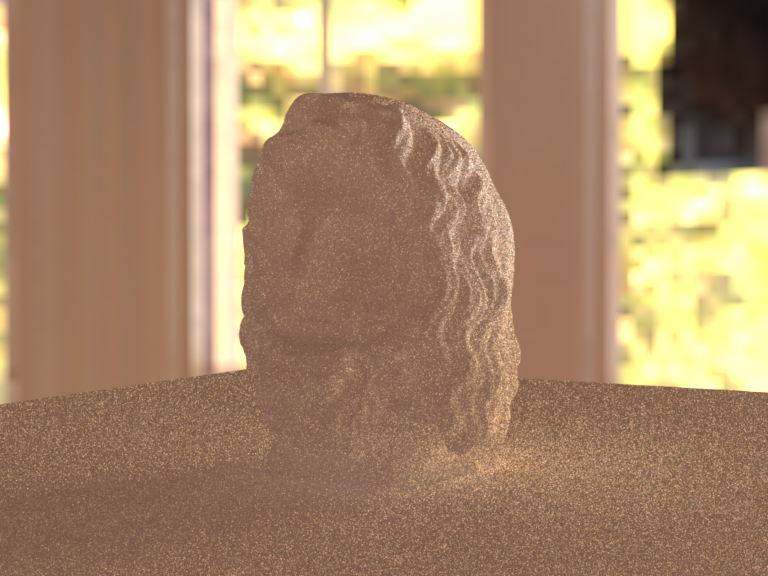
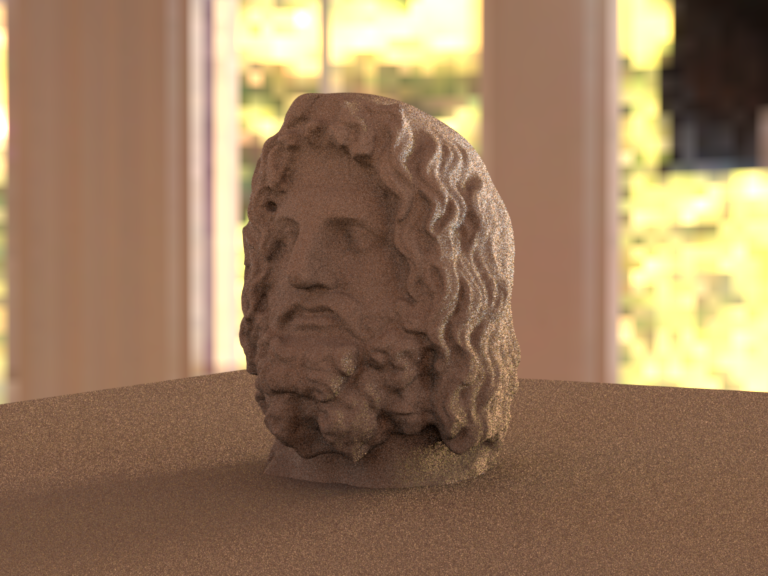
fixed environment lights

Changed region(s): [[0.0, 0.1562, 1.0, 1.0]]

diff --git a/src/pathtracing.cpp b/src/pathtracing.cpp
@@ -18,6 +18,7 @@ Color3f sampleRandomEmitter(const Scene *scene, Sampler *sampler,
             const Point3f &surfaceP,
             Emitter *&emitterMesh,
             Point3f &lightP,
+            const Point3f &normal,
             float &lightPdf)
 {
     // Sample a random emitter
@@ -31,6 +32,9 @@ Color3f sampleRandomEmitter(const Scene *scene, Sampler *sampler,
     // Sample a point on the emitter
     EmitterQueryRecord emitterQuery (ESolidAngle);
     emitterQuery.surfaceP = surfaceP;
+
+    if (emitterMesh->getEmitterType() == EmitterType::EMITTER_ENVIRONMENT)
+        emitterQuery.n = normal;
     Color3f Le = emitterMesh->sampleLi(sampler, emitterQuery) / randomLightPdf;
     
     lightP = emitterQuery.lightP;
@@ -92,11 +96,12 @@ Color3f Pth::nextEventEstimation(const Scene *scene,
                 float &lightPdf, float &bsdfPdf)
 {
     Point3f lightP;
+    Point3f normal = state.intersection.shFrame.n;
     Emitter *emitterMesh = nullptr;
 
     // Sample a point on a random emitter
     Color3f Le = sampleRandomEmitter(scene, sampler, bsdfQuery.po, 
-            emitterMesh, lightP, lightPdf);
+            emitterMesh, lightP, normal, lightPdf);
     
     if (Le == Color3f(0.0f))
         return Color3f(0.0f);
@@ -119,10 +124,17 @@ Color3f Pth::nextEventEstimation(const Scene *scene,
         // Compute the geometric term
         float cosThetaP = Math::absCosTheta(l_wo);
         float G = cosThetaP / g_wo.squaredNorm();
+        
 
         if (emitterMesh->getEmitterType() == EmitterType::EMITTER_ENVIRONMENT)
         {
-            return Le*f *cosThetaP;
+            if (scene->getIntegrator()->toString() == "Whitted[]")
+            {
+                return Le * f * cosThetaP;
+            }else{
+                return Le * f * cosThetaP * bsdfPdf;
+            }
+            
         }else
         {
             return Le * f * G;

diff --git a/src/path_mis.cpp b/src/path_mis.cpp
@@ -133,12 +133,22 @@ public:
             /* Find the surface that is visible in the requested direction */
             if (!scene->rayIntersect(state.ray, state.intersection))
             {
-                // Render emitter
-                EmitterQueryRecord emitterQuery(-state.ray.d, ESolidAngle);
-                emitterQuery.lightP = state.ray.d*1e15;
+                if (scene->getEnvironmentalEmitter() != nullptr && state.depth < 2){
+                    EmitterQueryRecord emitterQuery (-state.ray.d, EMeasure::EDiscrete);
+                    emitterQuery.lightP = state.ray.d*1e15;
 
-                if (scene->getEnvironmentalEmitter() != nullptr)
-                    state.radiance += scene->getEnvironmentalEmitter()->eval(emitterQuery)*state.scatteringFactor;
+                    float weight = 1.0f;
+                    if (state.previous_diffuse)
+                    {
+                        emitterQuery.surfaceP = state.prevP;
+                        emitterQuery.measure = EMeasure::ESolidAngle;
+                        
+                        float lightPdf = scene->getEnvironmentalEmitter()->pdf(emitterQuery);
+                        int nSamples = state.previous_sss ? N_SSS_NES_SAMPLES : 1;
+                        weight = Math::powerHeuristic(1, state.bsdfPdf, nSamples, lightPdf);
+                    }
+                    state.radiance += scene->getEnvironmentalEmitter()->eval(emitterQuery)*state.scatteringFactor * weight;
+                }
                 state.scatteringFactor = Color3f(0.0f);
                 return;
             }

diff --git a/src/whitted.cpp b/src/whitted.cpp
@@ -69,7 +69,9 @@ public:
         auto query = Pth::initBSDFQuery(scene, state);
         Color3f fp = bsdf->samplePoint(query, sampler);
 
-        return fp * Pth::nextEventEstimation(scene, sampler, state, query);
+        float lightPdf, bsdfPdf;
+        Color3f result = fp * Pth::nextEventEstimation(scene, sampler, state, query, lightPdf, bsdfPdf);
+        return result;
     }
 
     Color3f integrateSubsurface(const Scene *scene, 
@@ -106,11 +108,9 @@ public:
 
         /* Find the surface that is visible in the requested direction */
         if (!scene->rayIntersect(ray, its)){
-            // Render emitter
-            EmitterQueryRecord emitterQuery(-ray.d, EDiscrete);
-            emitterQuery.lightP = ray.d*1e15;
-
             if (scene->getEnvironmentalEmitter() != nullptr){
+                EmitterQueryRecord emitterQuery(-ray.d, EDiscrete);
+                emitterQuery.lightP = ray.d*1e15;
                 radiance += scene->getEnvironmentalEmitter()->eval(emitterQuery);
                 return radiance;
             }else{

diff --git a/src/path_ems.cpp b/src/path_ems.cpp
@@ -103,13 +103,12 @@ public:
         {
             if (!scene->rayIntersect(state.ray, state.intersection))
             {
-                // Render emitter
-                EmitterQueryRecord emitterQuery(-state.ray.d, ESolidAngle);
-                emitterQuery.lightP = state.ray.d*1e15;
-
-                if (scene->getEnvironmentalEmitter() != nullptr)
-                    state.radiance += scene->getEnvironmentalEmitter()->eval(emitterQuery)*state.scatteringFactor;
-                
+                if (scene->getEnvironmentalEmitter() != nullptr && state.depth < 2){
+                    EmitterQueryRecord emitterQuery (-state.ray.d, EMeasure::EDiscrete);
+                    emitterQuery.lightP = state.ray.d*1e15;
+                    float weight = state.depth > 0 ? 0.5f : 1.0f;
+                    state.radiance += scene->getEnvironmentalEmitter()->eval(emitterQuery) * 1 * state.scatteringFactor;
+                }
                 state.scatteringFactor = Color3f(0.0f);
                 return;
             }

diff --git a/src/path_mats.cpp b/src/path_mats.cpp
@@ -94,12 +94,11 @@ public:
             /* Find the surface that is visible in the requested direction */
             if (!scene->rayIntersect(state.ray, state.intersection))
             {
-                // Render emitter
-                EmitterQueryRecord emitterQuery(-state.ray.d, ESolidAngle);
-                emitterQuery.lightP = state.ray.d*1e15;
-
-                if (scene->getEnvironmentalEmitter() != nullptr)
+                if (scene->getEnvironmentalEmitter() != nullptr && state.depth < 2){
+                    EmitterQueryRecord emitterQuery (-state.ray.d, EMeasure::EDiscrete);
+                    emitterQuery.lightP = state.ray.d*1e15;
                     state.radiance += scene->getEnvironmentalEmitter()->eval(emitterQuery)*state.scatteringFactor;
+                }
                 state.scatteringFactor = Color3f(0.0f);
                 return;
             }

diff --git a/src/environment.cpp b/src/environment.cpp
@@ -80,14 +80,16 @@ public:
 	}
 
 	virtual Color3f sampleLi(Sampler *sampler, EmitterQueryRecord &query) const {
-		// Sample a direction on the unit sphere using uniform sampling
-		
-		query.wo = Warp::squareToUniformSphere(sampler->next2D());
-		// cerr << "n: " << query.n << endl;
-		query.lightP = query.surfaceP + query.wo*1e15;
-		query.pdf = pdf(query);
 
-		return eval(query);
+        query.wo = Warp::squareToUniformSphere(sampler->next2D());
+        query.pdf = pdf(query);
+        query.lightP = -query.wo*1e10;
+        if (Math::sameDirection(query.n, query.wo))
+			return Color3f(0.0f);
+		
+		if (query.pdf <= 1e-6)
+			return Color3f(0.0f);
+		return eval(query) / query.pdf;
 	}
 
 	// Returns probability with respect to solid angle given by all the information inside the emitterqueryrecord.

diff --git a/src/scene.cpp b/src/scene.cpp
@@ -135,9 +135,9 @@ Emitter *Scene::sampleEmitter(Sampler* sampler, float &pdf) const
     float rnd = sampler->next1D(); // Get a random value between 0 and 1
 
     // Sample from the PDF
-    //size_t index = m_emitterPDF.sample(rnd, pdf);
+    //size_t index = m_emitterPDF.sample(rnd, pdf); // Multi importance lighting
+    size_t index = std::min(static_cast<size_t>(std::floor(m_emitters.size()*rnd)), m_emitters.size() - 1); // random light
     pdf = 1. / float(m_emitters.size());
-    size_t index = std::min(static_cast<size_t>(std::floor(m_emitters.size()*rnd)), m_emitters.size() - 1);
 
     // Return the selected emitter
     return m_emitters[index];

diff --git a/include/nori/math.h b/include/nori/math.h
@@ -233,7 +233,12 @@ class Math
     inline static float powerHeuristic(int nf, float fPdf, int ng, float gPdf) 
     {
         float f = nf * fPdf, g = ng * gPdf;
-        return (f * f) / (f * f + g * g);
+        float term1 = (f * f);
+        float term2 = (f * f + g * g);
+        if (term2 > 1e-6)
+            return term1 / term2;
+        else
+            return 0;
     }
 
     inline static bool isNaN(float v) 
